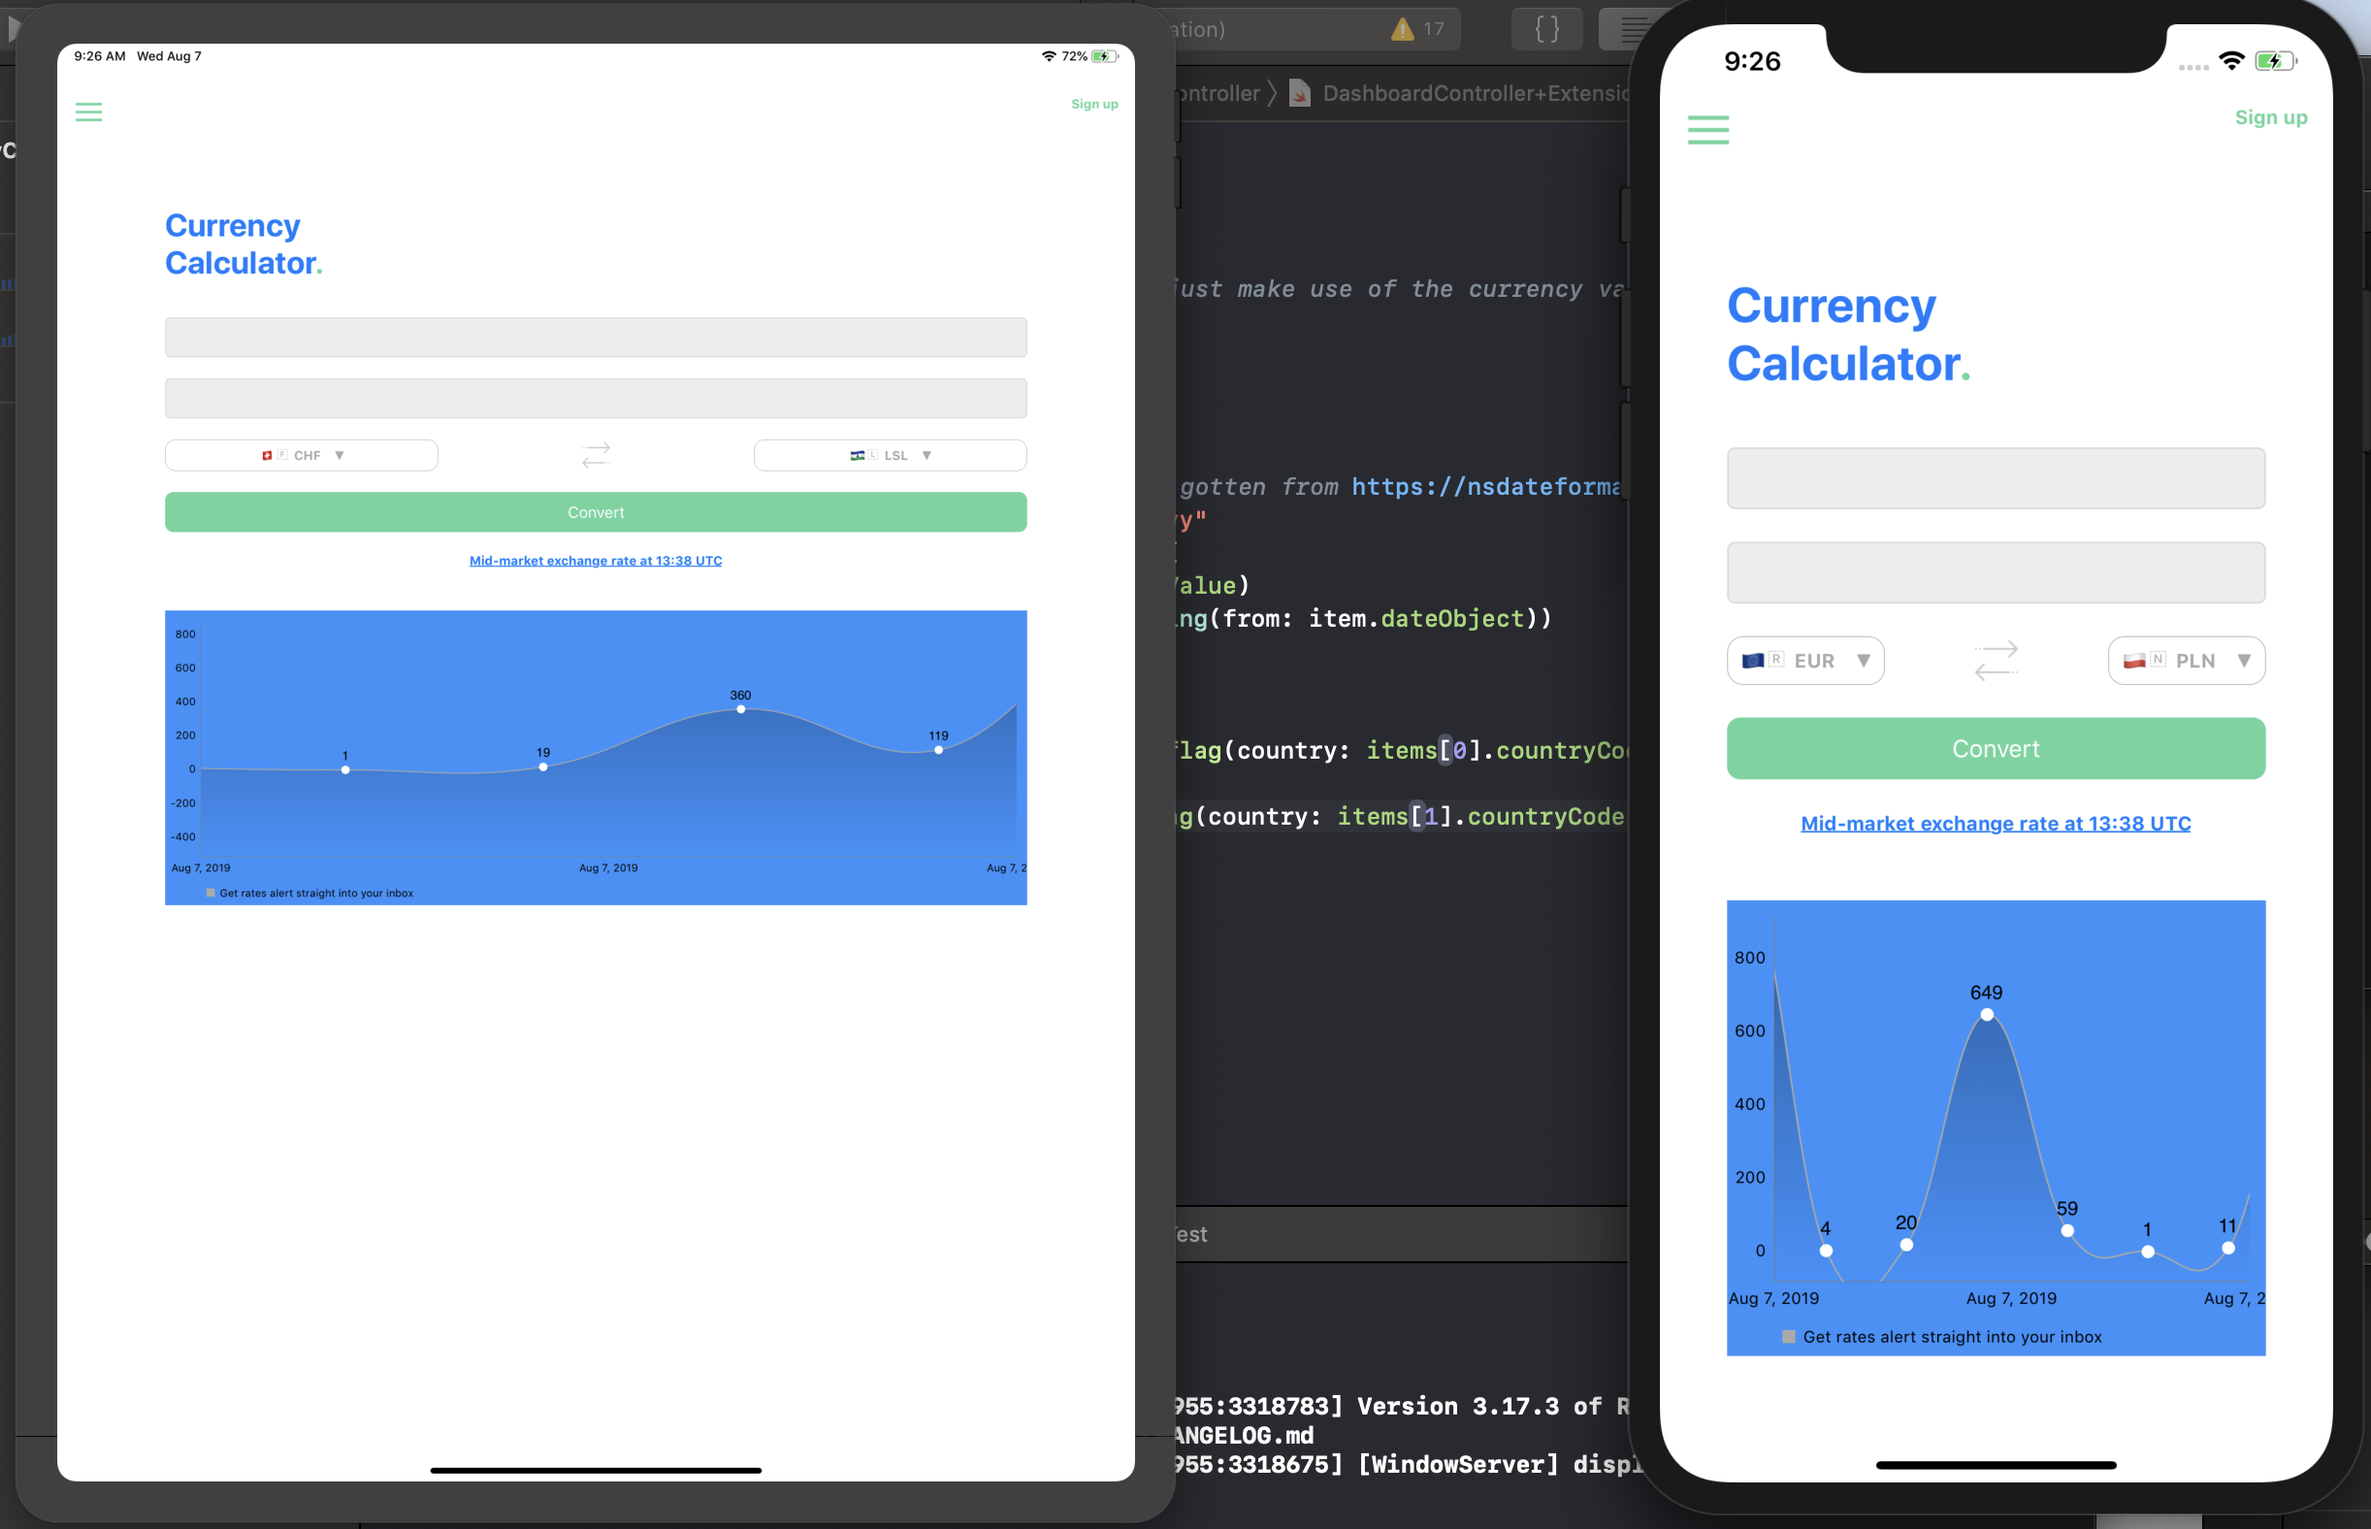
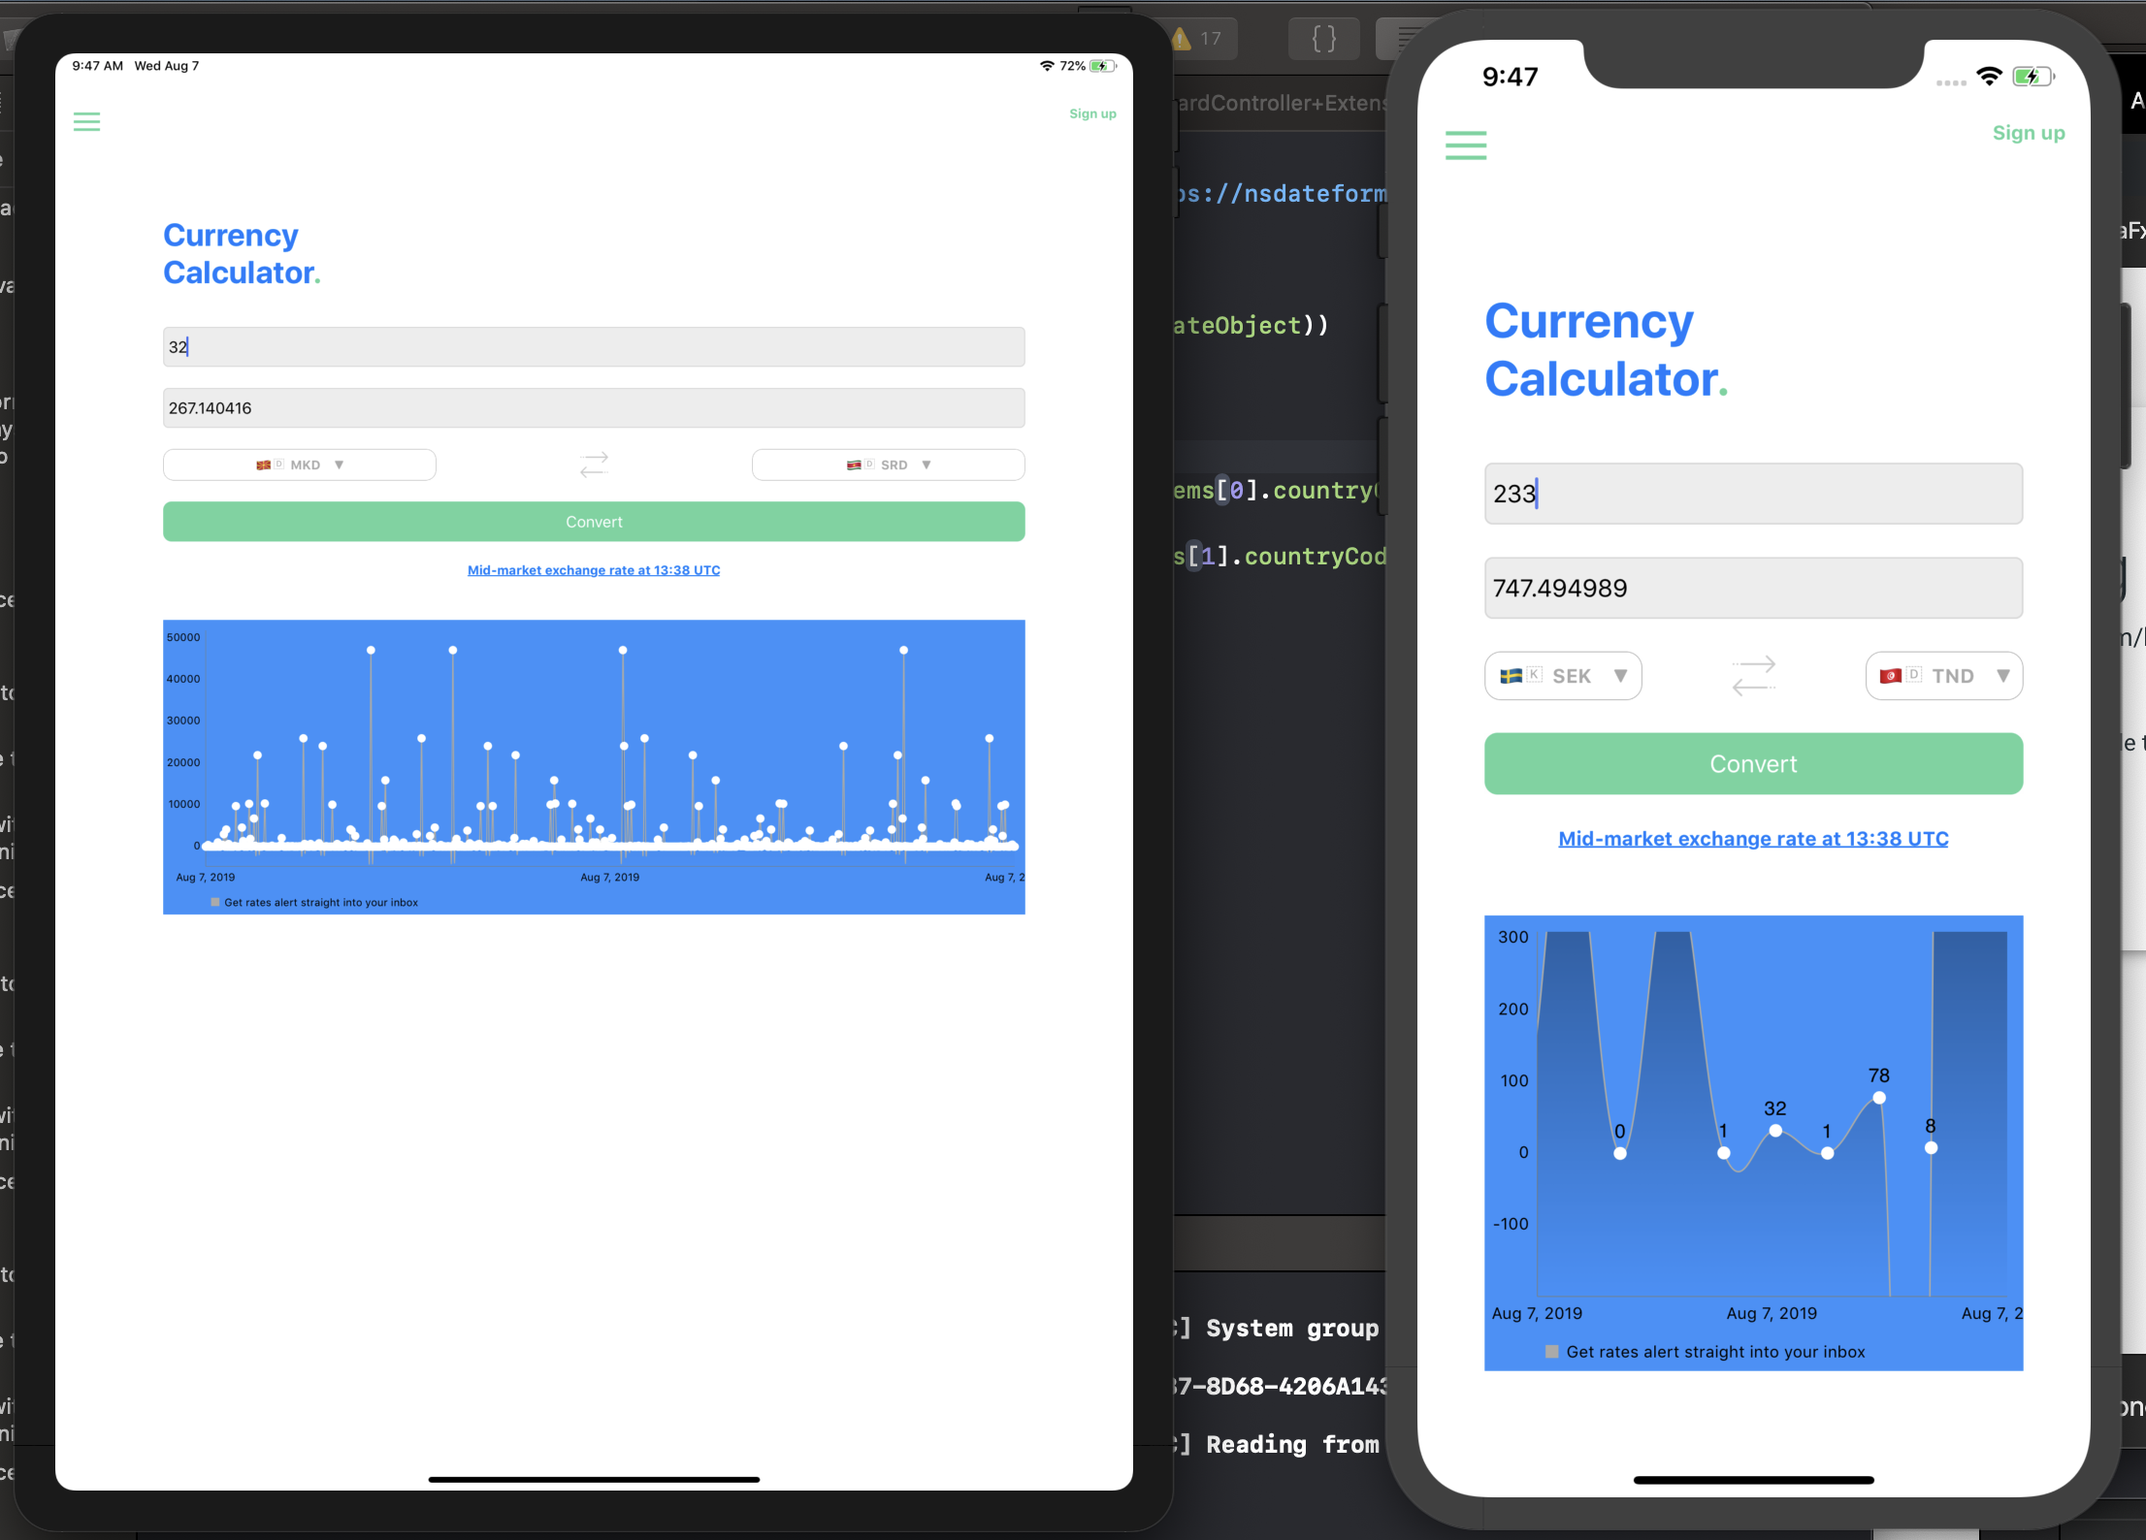
Formatted the custom textfield

Changed region(s): [[0.0, 0.0, 1.0, 1.0], [0.0624, 0.1244, 0.156, 0.1865], [0.5615, 0.4042, 0.6239, 0.4353]]

diff --git a/CurrencyConverterTest/Common/Views/CustomTextField.swift b/CurrencyConverterTest/Common/Views/CustomTextField.swift
@@ -10,16 +10,16 @@ import Foundation
 import SkyFloatingLabelTextField
 
 class CustomTextField: SkyFloatingLabelTextField {
-    private let leftPadding = CGFloat(6)
-    override open func placeholderRect(forBounds bounds: CGRect) -> CGRect {
-        let rect = CGRect(
-            x: leftPadding,
-            y: titleHeight(),
-            width: bounds.size.width,
-            height: bounds.size.height - titleHeight() - selectedLineHeight
-        )
-        return rect
-    }
+    private let leftPadding = CGFloat(16)
+//    override open func placeholderRect(forBounds bounds: CGRect) -> CGRect {
+//        let rect = CGRect(
+//            x: leftPadding,
+//            y: titleHeight(),
+//            width: bounds.size.width,
+//            height: bounds.size.height - titleHeight() - selectedLineHeight
+//        )
+//        return rect
+//    }
     override func titleLabelRectForBounds(_ bounds: CGRect, editing: Bool) -> CGRect {
         if editing {
             return CGRect(x: leftPadding, y: 0, width: bounds.size.width, height: titleHeight())
@@ -27,13 +27,19 @@ class CustomTextField: SkyFloatingLabelTextField {
         return CGRect(x: leftPadding, y: titleHeight(), width: bounds.size.width, height: titleHeight())
     }
     
-//    override var isEnabled: Bool {
-//        willSet {
-////            textColor = newValue ? UIColor.white : UIColor.black
-//            backgroundColor = newValue ? UIColor.lightGray : UIColor.primaryColor
-//        }
-//    }
+    let padding = UIEdgeInsets(top: 0, left: 5, bottom: 0, right: 5)
     
+    override open func textRect(forBounds bounds: CGRect) -> CGRect {
+        return bounds.inset(by: padding)
+    }
+    
+    override open func placeholderRect(forBounds bounds: CGRect) -> CGRect {
+        return bounds.inset(by: padding)
+    }
+    
+    override open func editingRect(forBounds bounds: CGRect) -> CGRect {
+        return bounds.inset(by: padding)
+    }
     
 }
 

diff --git a/CurrencyConverterTest/View/Controller/DashboardController+Extension.swift b/CurrencyConverterTest/View/Controller/DashboardController+Extension.swift
@@ -125,6 +125,7 @@ extension DashboardController{
             }
         }
         if items.count > 2{
+            selectedCountry = items[1]
             fromCountryCurrencyLabel.text = "  ".flag(country: items[0].countryCode) + items[0].countryCode+"    ▼"
             toCountryCurrencyLabel.text = "  ".flag(country: items[1].countryCode) + items[1].countryCode+"    ▼"
         }
